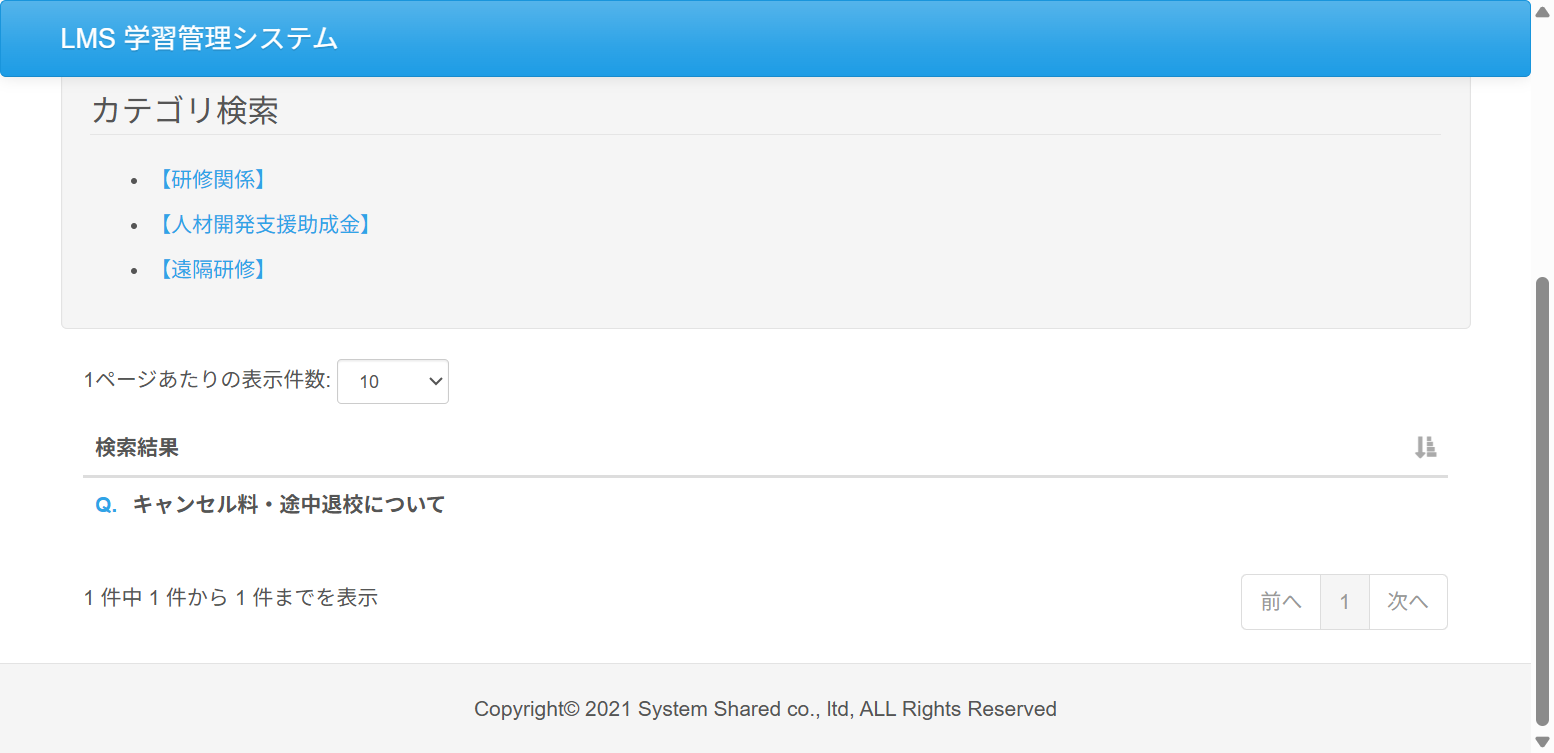
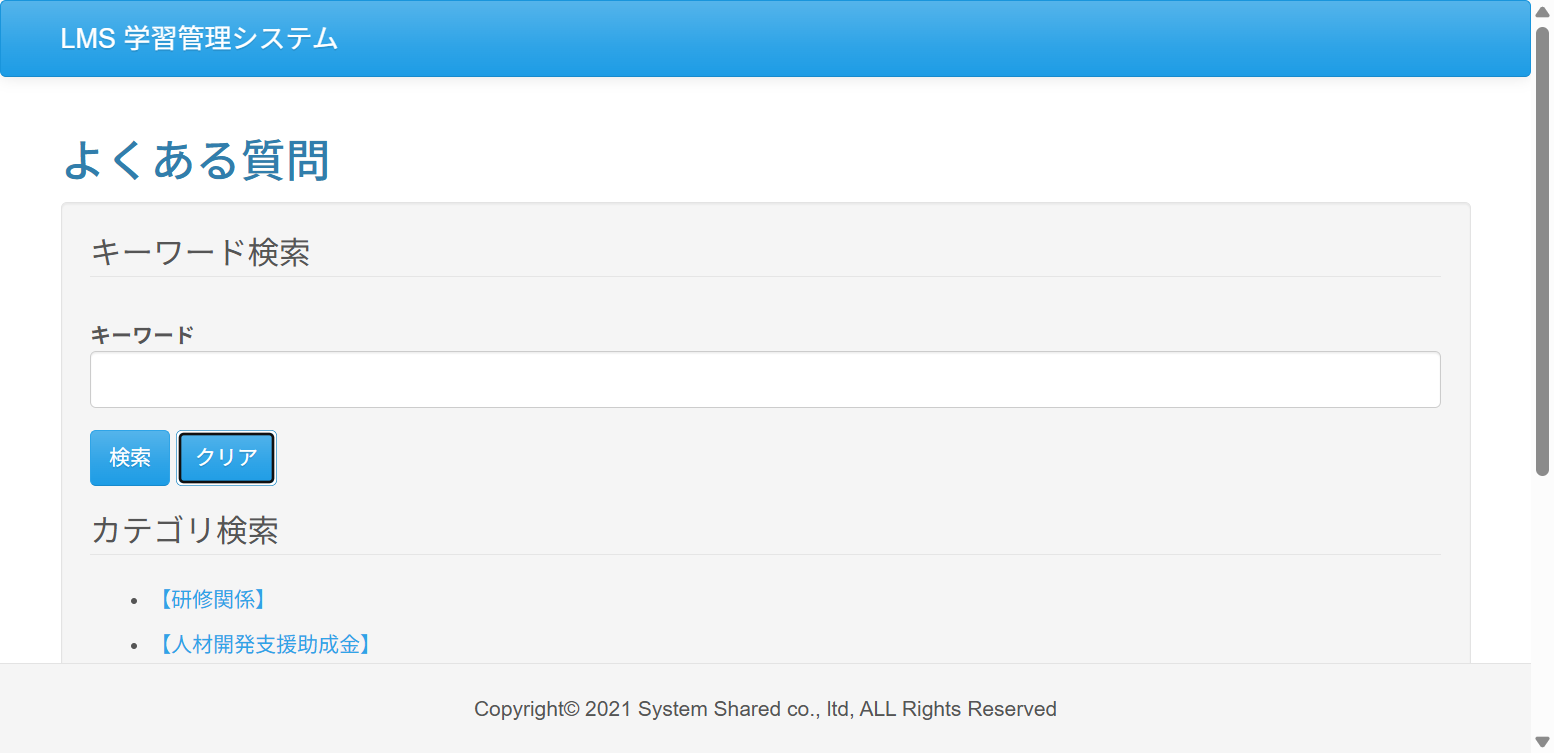
Fix:[WEN] Fix テストケース仕様書(Case01~Case06). Add:[WEN] Add tests(Case05 and Case06).

diff --git a/test_code_creation_name/src/test/java/jp/co/sss/lms/ct/f02_faq/Case06.java b/test_code_creation_name/src/test/java/jp/co/sss/lms/ct/f02_faq/Case06.java
@@ -1,6 +1,9 @@
 package jp.co.sss.lms.ct.f02_faq;
 
 import static jp.co.sss.lms.ct.util.WebDriverUtils.*;
+import static org.junit.jupiter.api.Assertions.*;
+
+import java.util.Set;
 
 import org.junit.jupiter.api.AfterAll;
 import org.junit.jupiter.api.BeforeAll;
@@ -9,6 +12,9 @@ import org.junit.jupiter.api.MethodOrderer.OrderAnnotation;
 import org.junit.jupiter.api.Order;
 import org.junit.jupiter.api.Test;
 import org.junit.jupiter.api.TestMethodOrder;
+import org.openqa.selenium.By;
+
+import jp.co.sss.lms.ct.util.WebDriverUtils;
 
 /**
  * 結合テスト よくある質問機能
@@ -35,42 +41,101 @@ public class Case06 {
 	@Order(1)
 	@DisplayName("テスト01 トップページURLでアクセス")
 	void test01() {
-		// TODO ここに追加
+		//ウェブページのインスタンスを生成
+		String url = "http://localhost:8080/lms";//定数化
+		WebDriverUtils.goTo(url);
+		//画面内要素を確認
+		assertEquals("ログイン | LMS", WebDriverUtils.webDriver.getTitle(), "ログイン画面に遷移する");
+		assertNotNull(WebDriverUtils.webDriver.findElement(By.xpath("//input[@value='ログイン']")),
+				"ログイン画面にログインボタンが存在している");
+		//スクリーンショットを取得
+		WebDriverUtils.getEvidence(new Object() {
+		});
 	}
 
 	@Test
 	@Order(2)
 	@DisplayName("テスト02 初回ログイン済みの受講生ユーザーでログイン")
 	void test02() {
-		// TODO ここに追加
+		// ログインしているアカウント情報を渡す
+		String ID = "StudentAA01";
+		String PW = "StudentAA1";
+		int waitTime = 120;
+		//ログインテスト正常系
+		WebDriverUtils.webDriver.findElement(By.id("loginId")).sendKeys(ID);
+		WebDriverUtils.webDriver.findElement(By.id("password")).sendKeys(PW);
+		WebDriverUtils.webDriver.findElement(By.xpath("//input[@value='ログイン']")).click();
+		WebDriverUtils.pageLoadTimeout(waitTime);//マジックナンバー防止
+		//画面内要素を確認
+		assertEquals("コース詳細 | LMS", WebDriverUtils.webDriver.getTitle(), "コース詳細画面に遷移する");
+		//スクリーンショットを取得
+		WebDriverUtils.getEvidence(new Object() {
+		});
 	}
 
 	@Test
 	@Order(3)
 	@DisplayName("テスト03 上部メニューの「ヘルプ」リンクからヘルプ画面に遷移")
 	void test03() {
-		// TODO ここに追加
+		//ヘルプ画面に遷移
+		WebDriverUtils.webDriver.findElement(By.xpath("//a[contains(text(), '機能')]")).click();
+		int waitTime = 120;
+		WebDriverUtils.webDriver.findElement(By.xpath("//a[contains(text(), 'ヘルプ')]")).click();
+		WebDriverUtils.pageLoadTimeout(waitTime);
+		//画面内要素を確認
+		assertEquals("ヘルプ | LMS", WebDriverUtils.webDriver.getTitle(), "ヘルプ画面に遷移する");
+		//スクリーンショットを取得
+		WebDriverUtils.getEvidence(new Object() {
+		});
 	}
 
 	@Test
 	@Order(4)
 	@DisplayName("テスト04 「よくある質問」リンクからよくある質問画面を別タブに開く")
 	void test04() {
-		// TODO ここに追加
+		//よくある質問画面に遷移
+		int waitTime = 120;
+		WebDriverUtils.webDriver.findElement(By.xpath("//a[@href='/lms/faq']")).click();
+		Set<String> allWindows = webDriver.getWindowHandles();
+		String lastWindow = allWindows.toArray(new String[0])[allWindows.size() - 1];//タブを配列化
+		WebDriverUtils.webDriver.switchTo().window(lastWindow);//タブを切り替える
+		WebDriverUtils.pageLoadTimeout(waitTime);
+		//画面内要素を確認
+		assertEquals("よくある質問 | LMS", WebDriverUtils.webDriver.getTitle(), "よくある質問画面に遷移する");
+		//スクリーンショットを取得
+		WebDriverUtils.getEvidence(new Object() {
+		});
 	}
 
 	@Test
 	@Order(5)
 	@DisplayName("テスト05 カテゴリ検索で該当カテゴリの検索結果だけ表示")
 	void test05() {
-		// TODO ここに追加
+		//カテゴリ検索を実行
+		int waitTime = 120;
+		String url = "/lms/faq?frequentlyAskedQuestionCategoryId=";
+		String no = "1";
+		WebDriverUtils.webDriver.findElement(By.xpath("//a[@href='" + url + no + "']")).click();//変数ブロック化
+		WebDriverUtils.pageLoadTimeout(waitTime);
+		//画面内要素を確認
+		String bottomPixel = "585.33";
+		WebDriverUtils.scrollTo(bottomPixel);
+		assertNotNull(WebDriverUtils.webDriver.findElement(By.xpath("//span")), "検索された質問が正しく表示");
+		//スクリーンショットを取得
+		WebDriverUtils.getEvidence(new Object() {
+		});
 	}
 
 	@Test
 	@Order(6)
 	@DisplayName("テスト06 検索結果の質問をクリックしその回答を表示")
 	void test06() {
-		// TODO ここに追加
+		//検索結果を検査
+		WebDriverUtils.webDriver.findElement(By.xpath("//span[text()='Q.']")).click();
+		assertNotNull(WebDriverUtils.webDriver.findElement(By.xpath("//span[text()='A.']")), "検索された質問の回答が正しく表示");
+		//スクリーンショットを取得
+		WebDriverUtils.getEvidence(new Object() {
+		});
 	}
 
 }

diff --git a/test_code_creation_name/src/test/java/jp/co/sss/lms/ct/f02_faq/Case05.java b/test_code_creation_name/src/test/java/jp/co/sss/lms/ct/f02_faq/Case05.java
@@ -132,13 +132,13 @@ public class Case05 {
 	@DisplayName("テスト06 「クリア」ボタン押下で入力したキーワードを消去")
 	void test06() {
 		//検索欄にキーワードを消去
+		String upPixel = "0";
 		int waitTime = 120;
+		WebDriverUtils.scrollTo(upPixel);
 		WebDriverUtils.webDriver.findElement(By.xpath("//input[@value='クリア']")).click();
 		WebDriverUtils.pageLoadTimeout(waitTime);
 		//画面内要素を確認
-		//String upPixel = "0";
-		//WebDriverUtils.scrollTo(upPixel);
-		//assertNull(WebDriverUtils.webDriver.findElement(By.id("form")).getText(), "キーワードを消去済み");
+		assertEquals("", WebDriverUtils.webDriver.findElement(By.id("form")).getText(), "キーワードを消去済み");
 		//スクリーンショットを取得
 		WebDriverUtils.getEvidence(new Object() {
 		});